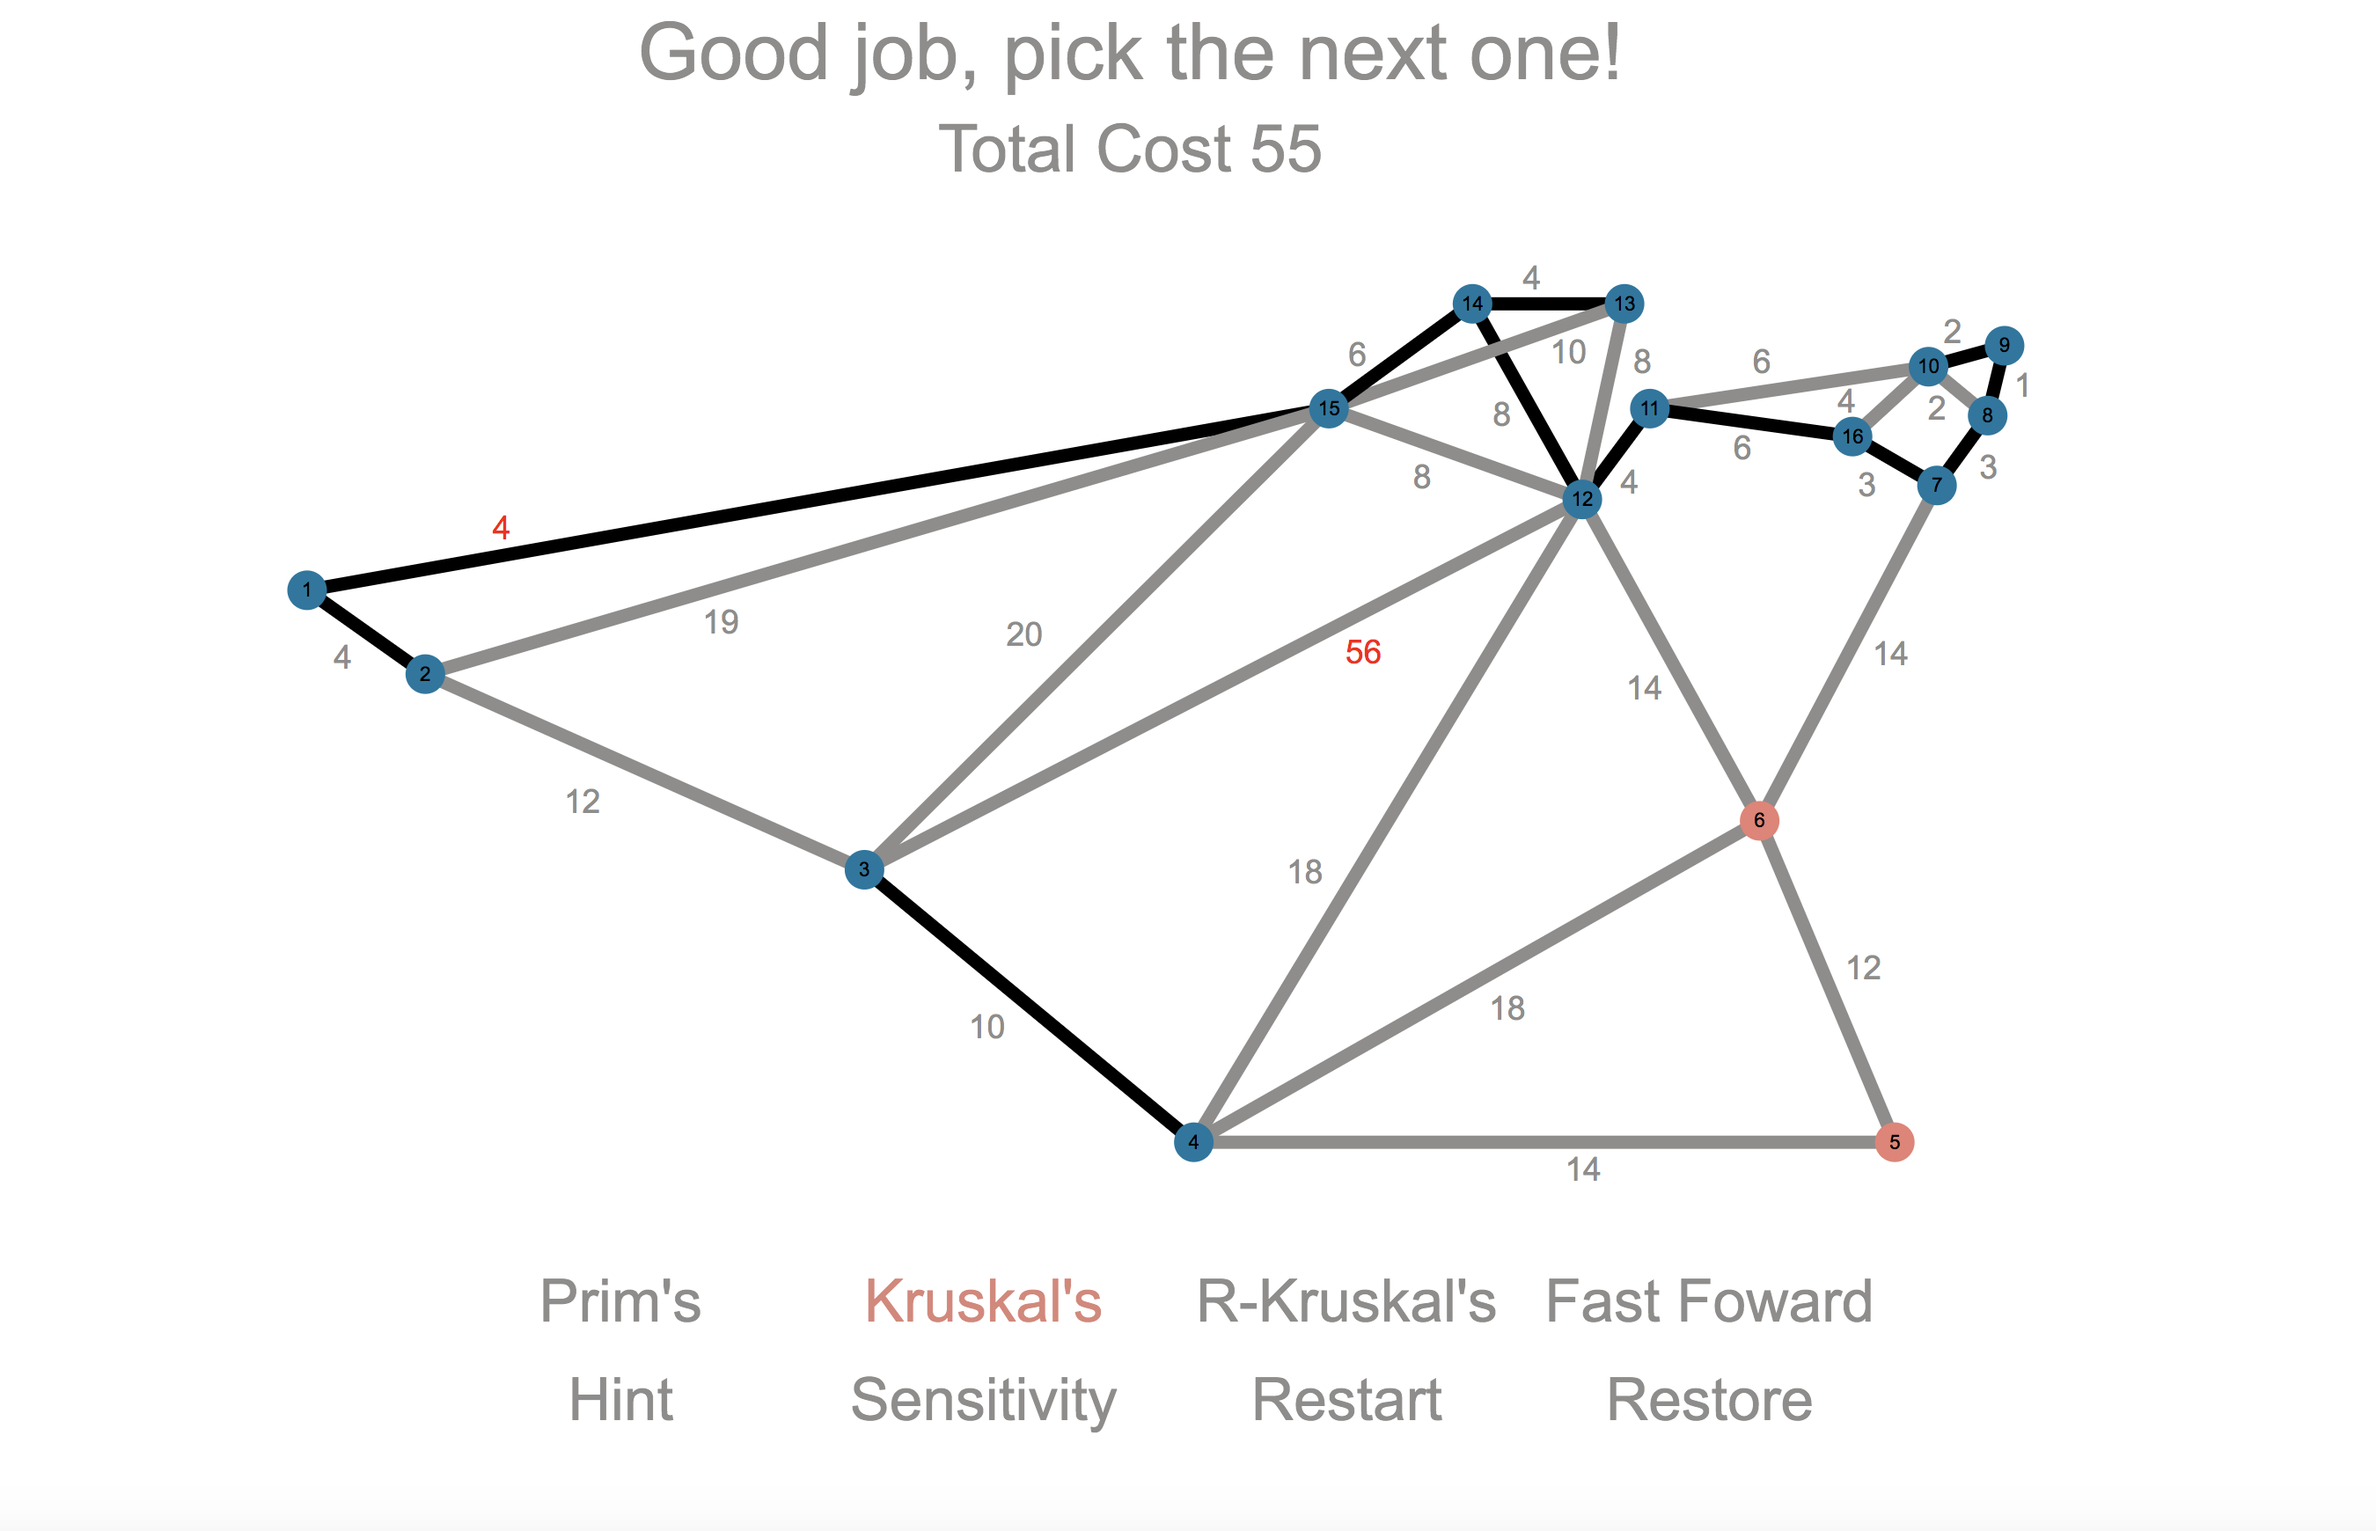
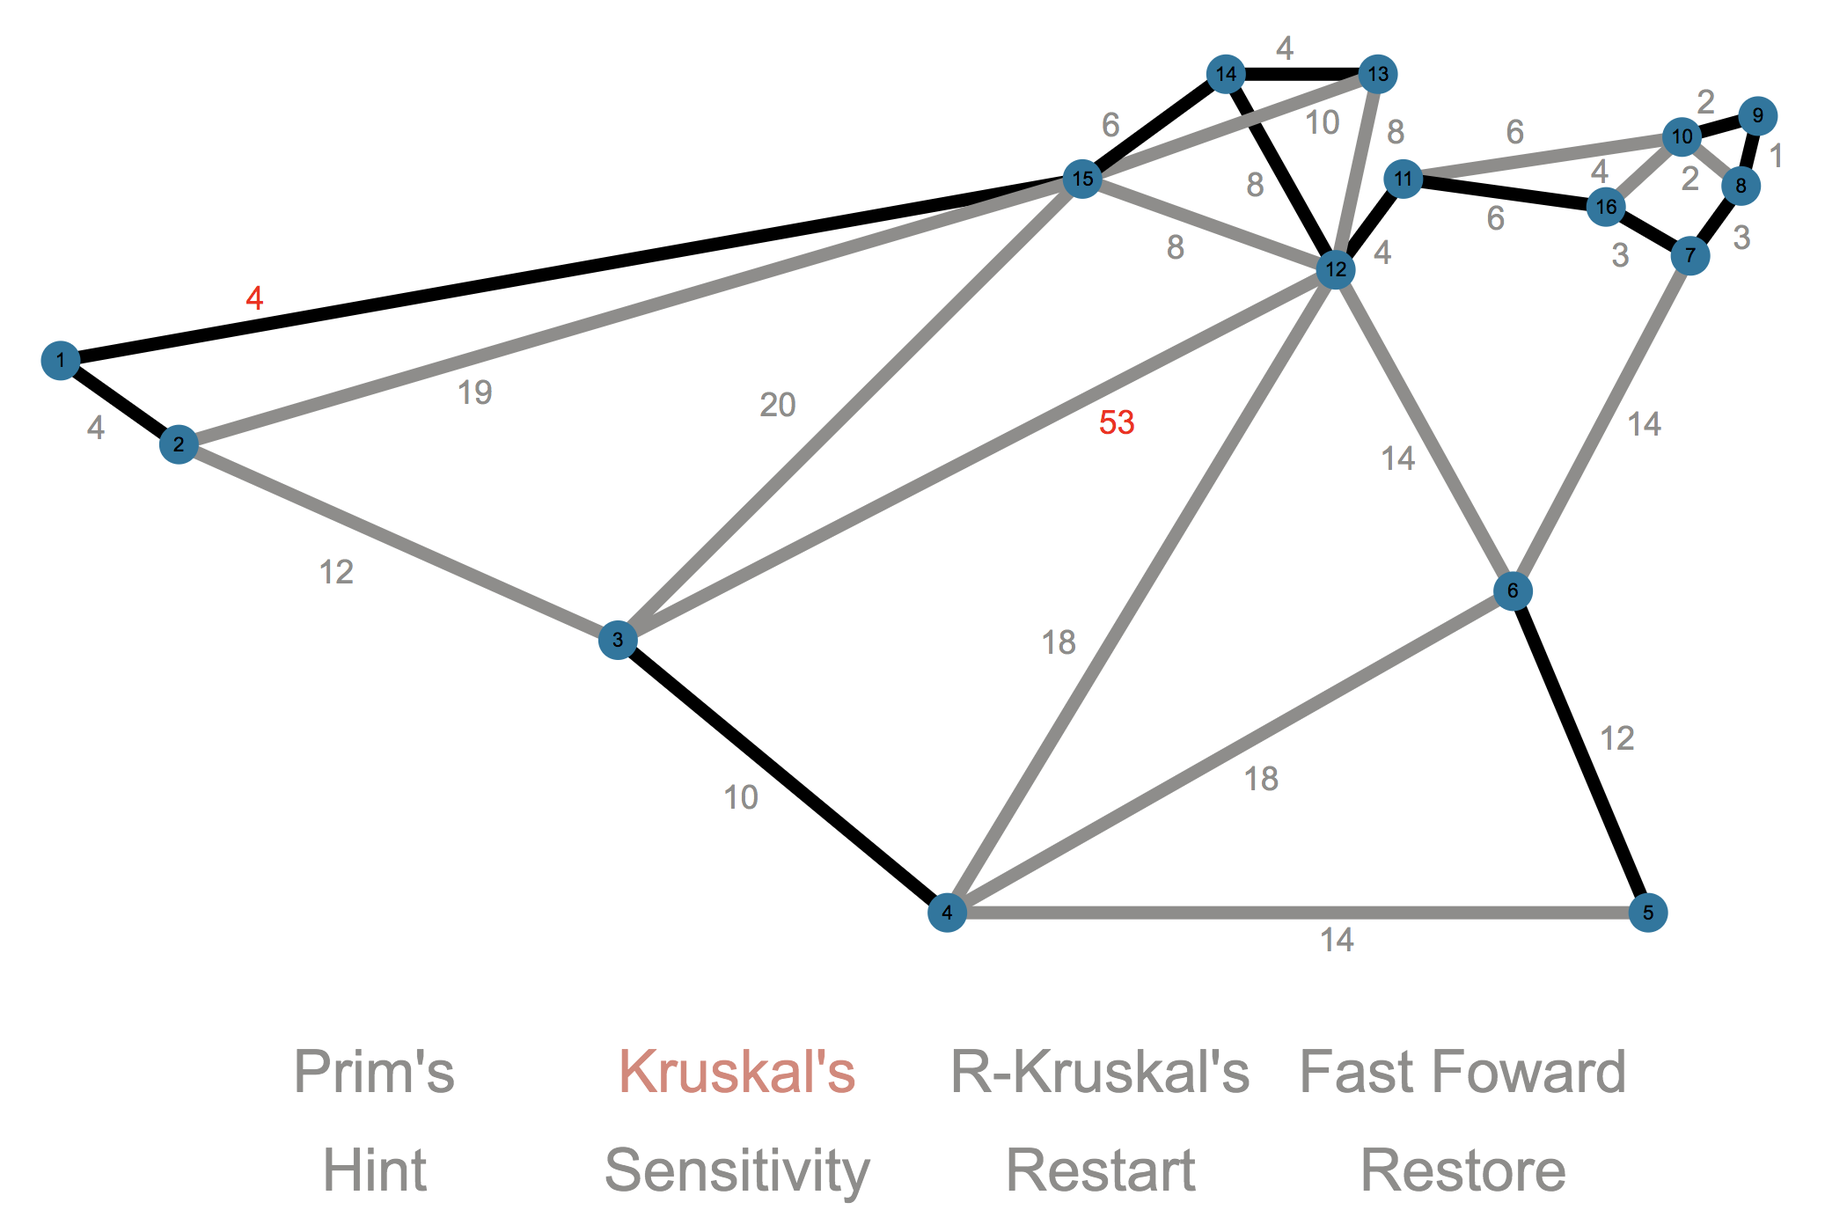
added sensitiivity analysis to shortest path lab. msic. bug fixes.

diff --git a/dijkstra_shortest_path_lab/data-ops.js b/dijkstra_shortest_path_lab/data-ops.js
@@ -1,5 +1,5 @@
 //BFS through the whole graph, creating a "previous", data scructure.
-var graphtype = 1;
+var graphtype = 0;
 var ff_enabled = false;
 var algo_state = AlgoStateEnum.Middle
 var test_iter = 0;
@@ -8,7 +8,7 @@ var verify_ready = false;
 var verify_arr = [];
 
 function recursive_animate(){
-    ffh.animate({opacity: 0} , 1500, function () {
+    ffh.animate({opacity: 0} , 500, function () {
         algorithm_step(clickables.node[0],true);
         algorithm_step_pt2(true);
         if (clickables.node.length > 0){
@@ -59,31 +59,31 @@ function restart(){
     //Set tables and colors to be as in the beggining, algorithm state to start, clickables to nothing; start node = something else if neccessary
     restart_graph(value_map, previous_map);
     restart_algorithm();
+    set_graph(0);
     ff_enabled = false;
     verify_eligible = false;
     verify_ready = false;
     verify_arr = [];
-    //alert(clickables)
-    //highlight_nodes(clickables["highlight"]) // Henry: added to un-highlight nodes
 }
 function algorithm_step(node_id, is_ff) {
     //Update tables and
-    node_in[node_id - 1] = 1;
-    clickables = get_clickables(algo_state, node_id);
-    increment_iteration()
-    setTable(value_map, previous_map);
-    setLensAndNodes(visited);
-    //instructtxt.attr("text", is_node_in(2, clickables.node));
-    // ffh.animate({opacity: 0} , 600, function () {
-    //     highlight_nodes(clickables["highlight"]);
-    // })
     if (is_ff == false || ff_enabled) {
-        positiveText();
-    }
+        node_in[node_id - 1] = 1;
+        clickables = get_clickables(algo_state, node_id);
+        increment_iteration()
+        setTable(value_map, previous_map, false);
+        setLensAndNodes(visited);
+        //instructtxt.attr("text", is_node_in(2, clickables.node));
+        // ffh.animate({opacity: 0} , 600, function () {
+        //     highlight_nodes(clickables["highlight"]);
+        // })
 
-    if (clickables.node.length == 0){
-        verify_eligible = true;
-        complete_text();
+        positiveText();
+
+        if (clickables.node.length == 0){
+            verify_eligible = true;
+            complete_text();
+        }
     }
 }
 function algorithm_step_pt2(is_ff){
@@ -104,7 +104,7 @@ function node_clicked(node) {
         algorithm_step_pt2(false);
     } else {
         if (is_node_in(id, clickables.node)){
-            algorithm_step(id);
+            algorithm_step(id,false);
             algorithm_step_pt2(false);
         } else{
             reject(id);
@@ -115,15 +115,86 @@ function node_clicked(node) {
 
 //TODO: set start node
 function edit_clicked() {
-    if (graphtype == 1){
-        graphtype = 2;
-        set_graph2();
-        restart();
-    } else{
-        graphtype = 1;
-        set_graph1();
-        restart();
+
+    edge_indices = new Array(15).fill([]).map(x => new Array(15).fill(undefined));
+    edge_indices[9][10] = 0
+    edge_indices[3][4] = 1
+    edge_indices[4][5] = 2
+    edge_indices[5][6] = 3
+    edge_indices[6][7] = 4
+    edge_indices[7][8] = 5
+    edge_indices[14][4] = 6
+    edge_indices[9][13] = 7
+    edge_indices[13][14] = 8
+    edge_indices[7][9] = 9
+    edge_indices[8][9] = 10
+    edge_indices[14][7] = 11
+    edge_indices[14][5] = 12
+    edge_indices[13][7] = 13
+    edge_indices[14][3] = 14
+    edge_indices[2][14] = 15
+    edge_indices[12][13] = 16
+    edge_indices[1][14] = 17
+    edge_indices[1][11] = 18
+    edge_indices[11][12] = 19
+    edge_indices[1][12] = 20
+    edge_indices[1][2] = 21
+    edge_indices[2][12] = 22
+    edge_indices[2][3] = 23
+    edge_indices[12][3] = 24
+    edge_indices[10][12] = 25
+    edge_indices[10][11] = 26
+
+
+    var node1;
+    var node2;
+    var new_value;
+    while(true){
+        var val = prompt("What is the first node of the length you want to change?", "");
+        if (!isNaN(val) && parseInt(val) > 0 && parseInt(val) < 15){
+            node1 = parseInt(val);
+            break;
+        } else {
+            alert("This is not an acceptable node")
+            return;
+        }
     }
+    while(true){
+        var val = prompt("What is the second node of the length you want to change?", "");
+        if (!isNaN(val) && parseInt(val) > 0 && parseInt(val) < 15){
+            node2 = parseInt(val);
+            break;
+        } else {
+            alert("This is not an acceptable node")
+            return;
+        }
+    }
+    while (true){
+        var val = prompt("To what integer value would you like to change?");
+        if (!isNaN(val) && parseInt(val) > 0 && parseInt(val) < 10000){
+            new_value = parseInt(val);
+            break;
+        } else {
+            alert("This is not an acceptable value")
+            return;
+        }
+    }
+    if (edge_indices[node1][node2] == undefined && edge_indices[node2][node1] == undefined){
+        alert("No such edge")
+    } else {
+
+        if (visited_index != 0) {
+            restart();
+        }
+        var i = edge_indices[node1][node2] == undefined ? edge_indices[node2][node1] : edge_indices[node1][node2]
+        len_values[i] = new_value
+        set_len_values(false);
+        len_texts[i].attr("stroke", "red")
+        len_texts[i].attr("fill", "red")
+    }
+
+    // graphtype = graphtype + 1 == TOTAL_GRAPHS ? 0 : graphtype + 1;
+    // set_graph(graphtype);
 }
 function reset_clicked() {
     restart();

diff --git a/dijkstra_shortest_path_lab/graphs.js b/dijkstra_shortest_path_lab/graphs.js
@@ -26,6 +26,7 @@ var clickables;
 var len_hitboxes;
 var len_text_ds;
 var node_texts;
+var TOTAL_GRAPHS = 2;
 
 const direction_array = ['f', 'b', 'f', 'f', 'f', 'f', 'f', 'b', 'b', 'b', 'b']
 
@@ -78,11 +79,18 @@ function node_map(i){
     return nodes[i - 1]
 }
 //TODO: finish these functions, make it compile with factored out items, finish verify
-function setTable(value_map, prev_map) {
+function setTable(value_map, prev_map, restart) {
     var i;
     for (i = 0; i < num_nodes ; i++){
-        labels_t2[i].attr("text", labels_t1[i].attr("text"));
-        prev_t2[i].attr("text", prev_t1[i].attr("text"));
+        if (restart) {
+            // set bottom table to given maps
+            labels_t2[i].attr("text", (value_map[i] == infinity ? "inf" : value_map[i].toString() + (node_in[i] == 1 ? "*" : "")));
+            prev_t2[i].attr("text", (prev_map[i] == -1 ? "-" : prev_map[i].toString()));
+        } else {
+            // set bottom table to previous top table
+            labels_t2[i].attr("text", labels_t1[i].attr("text"));
+            prev_t2[i].attr("text", prev_t1[i].attr("text"));
+        }
         labels_t1[i].attr("text", (value_map[i] == infinity ? "inf" : value_map[i].toString() + (node_in[i] == 1 ? "*" : "")));
         prev_t1[i].attr("text", (prev_map[i] == -1 ? "-" : prev_map[i].toString()));
         toptable.attr("text", "Table for iteration "+table_int)
@@ -136,7 +144,9 @@ function restart_graph(value_map, prev_map){
     highlight_cache = []
     instructtxt.attr("text", "Select the first node to begin!");
     node_in = new Array(num_nodes).fill(0);
-    setTable(value_map, prev_map);
+    var value_map = new Array(num_nodes).fill(infinity);
+    var prev_map = new Array(num_nodes).fill(-1);
+    setTable(value_map, prev_map, true);
 }
 
 function increment_iteration(){
@@ -157,22 +167,22 @@ function flow_direction(){
 
 }
 
-function set_graph2(){
-    len_values = [1,10,2,5,5,3,6,3,8,5,7,2,9,1,9,1,9,6,3,6,9,1,2,6,10,7,6]
-    set_len_values();
+function set_graph(i) {
+    len_values = [[14, 3, 3, 4, 2, 3, 8, 5, 2, 6, 6, 5, 7, 5, 8, 14, 12, 17, 2, 5, 3, 2, 3, 18, 19, 3, 1],
+                  [14, 3, 3, 4, 2, 3, 8, 5, 2, 6, 6, 5, 7, 5, 8, 14, 12, 17, 2, 5, 3, 2, 3, 18, 19, 3, 30]][i]
+    set_len_values(true);
 }
-function set_graph1(){
-    len_values = [4,2,5,6,1,9,4,3,4,6,4,5,2,10,4,10,7,5,9,4,10,8,9,6,1,1,7]
-    set_len_values();
-}
-function set_len_values(){
+
+function set_len_values(change){
     len_value_ds = new Map();
     var i;
     for (i = 0; i < lens.length; i++){
         len_value_ds.set(lens[i], len_values[i])
         len_texts[i].attr("text", len_values[i].toString());
-        len_texts[i].attr("stroke", "#8e8d8a")
-        len_texts[i].attr("fill", "#8e8d8a")
+        if (change) {
+            len_texts[i].attr("stroke", "#8e8d8a")
+            len_texts[i].attr("fill", "#8e8d8a")
+        }
     }
 }
 
@@ -536,7 +546,7 @@ function Graph1(rsr){
     q11.translate(0, -0.4);
 
 
-    set_len_values();
+    set_len_values(true);
     // var i;
 
 
@@ -614,8 +624,8 @@ function Graph1(rsr){
 
     var val_map_dummy = new Array(num_nodes).fill(infinity);
     var prev_map_dummy = new Array(num_nodes).fill(-1);
-    setTable(val_map_dummy, prev_map_dummy);
-    setTable(val_map_dummy, prev_map_dummy);
+    setTable(val_map_dummy, prev_map_dummy, false);
+    setTable(val_map_dummy, prev_map_dummy, false);
     bottomtable.attr("text", "Table for iteration -1");
 
     verify.attr("opacity", "0");

diff --git a/index.html b/index.html
@@ -7,6 +7,7 @@
     figure {
       border: 1px white solid;
       padding: 1px;
+      height: 400px;
     }
 
     figcaption {
@@ -49,30 +50,70 @@
         text-decoration: none;
     }
 
+    .container{
+        text-align: center;
+    }
+    .category{
+        display: inline-block;
+        width: 33%;
+        height: 400px;
+        line-height: 100px;
+        margin: 0px;
+    }
+
+    img {
+        vertical-align: middle;
+    }
+
     </style>
 
 
 
 <body class="vsc-initialized">
+
+    <div class="container">
+        <div class="category">
+            <figure>
+                <img src="tsp_cover.png" alt="Italian Trulli", style="width:400px;height:400px;">
+                <figcaption><a href = "./tsp_lab/tsp.html" >Travelling Salesman Problem</a></figcaption>
+            </figure>
+        </div>
+        <div class="category">
+            <figure>
+                <img src="dsp_cover.png" alt="Italian Trulli", style="width:500px;height:250px;">
+                <figcaption><a href = "./dijkstra_shortest_path_lab/dsp.html" >Dijkstra's Shortest Path</a></figcaption>
+            </figure>
+        </div>
+        <div class="category">
+            <figure>
+                <img src="mst_cover.png" alt="Italian Trulli", style="width:450px;height:300px;">
+                <figcaption><a href = "./min_spanning_tree_lab/mst.html" >Minimum Spanning Tree</a></figcaption>
+            </figure>
+        </div>
+    </div>
+
+    <!--
     <div class="row">
         <div class="column">
         <figure>
-            <img src="tsp_cover.png" alt="Italian Trulli", style="width:540px;height:348px;">
+            <img src="tsp_cover.png" alt="Italian Trulli", style="width:400px;height:400px;">
             <figcaption><a href = "./tsp_lab/tsp.html" >Travelling Salesman Problem</a></figcaption>
         </figure>
     </div>
     <div class="column">
         <figure>
-            <img src="dsp_cover.png" alt="Italian Trulli", style="width:540px;height:348px;">
+            <img src="dsp_cover.png" alt="Italian Trulli", style="width:500px;height:250px;">
             <figcaption><a href = "./dijkstra_shortest_path_lab/dsp.html" >Dijkstra's Shortest Path</a></figcaption>
         </figure>
     </div>
     <div class="column">
         <figure>
-            <img src="mst_cover.png" alt="Italian Trulli", style="width:540px;height:348px;">
+            <img src="mst_cover.png" alt="Italian Trulli", style="width:450px;height:300px;">
             <figcaption><a href = "./min_spanning_tree_lab/mst.html" >Minimum Spanning Tree</a></figcaption>
         </figure>
     </div>
+    -->
+
 
 <div id="canvas_container"></div>
 </body>

diff --git a/dijkstra_shortest_path_lab/interactive-algorithms.js b/dijkstra_shortest_path_lab/interactive-algorithms.js
@@ -6,7 +6,7 @@ var adjacency_map;
 var previous_map;
 const neg_infinity = -10e5
 var max_in;
-var visited_index;
+var visited_index = 0;
 var spy;
 var spy_block = true;
 
@@ -45,7 +45,7 @@ function heapify_down(array, i){
     var left = value_map[left_value - 1];
     var right = value_map[right_value - 1];
     var child = left > right ? right_value : left_value;
-    var child_index = left > right ? right_index(array, i) : left_index(array, i);   
+    var child_index = left > right ? right_index(array, i) : left_index(array, i);
     if ((left_value != -1 || right_value != -1) && (value_map[parent - 1] > value_map[child - 1])){
         var temp1 = index_map[child - 1];
         index_map[child - 1] = index_map[parent - 1];
@@ -125,7 +125,7 @@ function d_help(value){
     })
     return nodes_arr;
 }
-function dijkstra(curr_node){ 
+function dijkstra(curr_node){
     unvisited.delete(unvisited.heap, curr_node);
 
     var nodes = adjacency_map[curr_node - 1];
@@ -134,8 +134,8 @@ function dijkstra(curr_node){
     var cost = value_map[curr_node - 1]
     nodes.forEach(function (element, index, array) {
         var node = element["value"];
-        var cost2 = element["cost"];        
-        if (cost + cost2 < value_map[node - 1]){   
+        var cost2 = element["cost"];
+        if (cost + cost2 < value_map[node - 1]){
             unvisited.decreaseKey(unvisited.heap, node, cost + cost2);
             previous_map[node -1] = curr_node;
         }
@@ -235,7 +235,7 @@ function init_special(){
     value_map = [10,1,3,0]
 }
 function init_dijkstra(){
-    value_map[0] = 0;    
+    value_map[0] = 0;
     value_map[1] = infinity;
     value_map[2] = infinity;
     value_map[3] = infinity;
@@ -245,7 +245,7 @@ function init_dijkstra(){
     [{"value" : 1 , "cost": 1 }, {"value" : 3 , "cost": 50 }, {"value" : 4 , "cost": 4 }],
     [{"value" : 1 , "cost": 2 }, {"value" : 2 , "cost": 50 }, {"value" : 4 , "cost": 6 }],
     [{"value" : 1 , "cost": 40 }, {"value" : 2 , "cost": 4 }, {"value" : 3 , "cost": 6 }]]
-    var i; 
+    var i;
     for (i =0 ; i < num_nodes_test; i++){
         unvisited.insert(unvisited["heap"], i + 1);
     }
